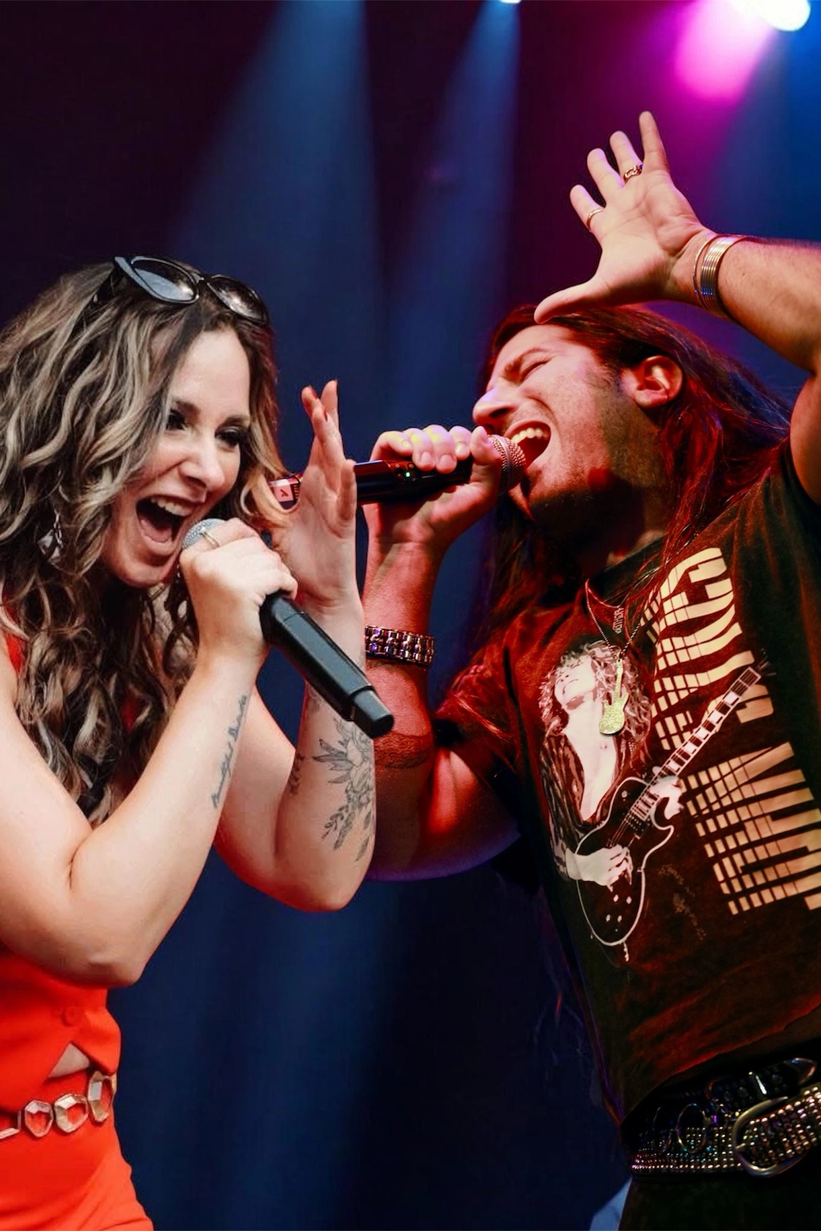
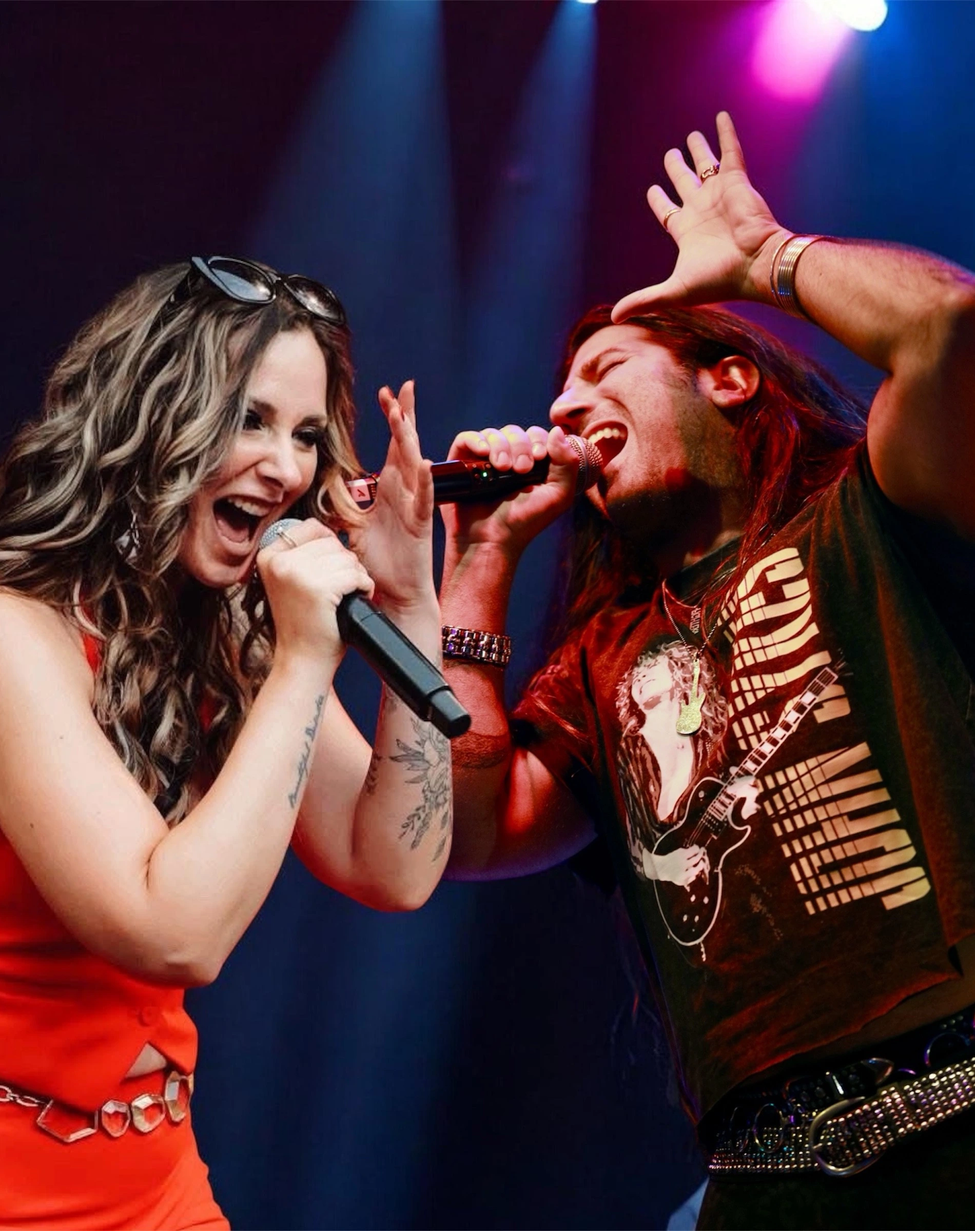
kleine Anpassungen

diff --git a/apps/we-rock/src/app/globals.css b/apps/we-rock/src/app/globals.css
@@ -408,7 +408,7 @@ h3, h4 {
 .hero-split {
   flex: 1 0 0%;               /* flex-basis:0 lets Safari resolve height from flex */
   display: grid;
-  grid-template-columns: 48fr 52fr;
+  grid-template-columns: 38fr 62fr;
   grid-template-rows: 1fr;    /* explicit row forces definite height in Safari */
   overflow: hidden;
   min-height: 0;
@@ -478,9 +478,9 @@ h3, h4 {
   position: absolute;
   top: 0;
   left: 0;
-  width: 25%;
+  width: 45%;
   height: 100%;
-  background: linear-gradient(to right, var(--bg-dark) 0%, transparent 100%);
+  background: linear-gradient(to right, var(--bg-dark) 0%, rgba(25, 23, 20, 0.55) 45%, transparent 100%);
   z-index: 1;
   pointer-events: none;
 }
@@ -586,7 +586,7 @@ h3, h4 {
 }
 .hero-sub {
   font-size: 0.9375rem;
-  color: rgba(226,217,200,0.82);
+  color: var(--text-light);
   margin-bottom: 28px;
   line-height: 1.6;
   max-width: 360px;
@@ -719,7 +719,7 @@ h3, h4 {
 }
 .social-media-desc {
   font-size: 1rem;
-  color: var(--text-muted);
+  color: var(--text);
   line-height: 1.8;
   margin-bottom: 32px;
   max-width: 400px;
@@ -1002,7 +1002,7 @@ h3, h4 {
   line-height: 1.05;
 }
 .about-text p {
-  color: var(--text-muted);
+  color: var(--text);
   font-size: 1rem;
   line-height: 1.8;
   margin-bottom: 32px;
@@ -1084,7 +1084,7 @@ h3, h4 {
 }
 .occasions-text { display: flex; flex-direction: column; align-items: flex-start; }
 .occasions-desc {
-  color: var(--text-muted);
+  color: var(--text);
   font-size: 1rem;
   line-height: 1.8;
   margin-bottom: 32px;
@@ -1264,7 +1264,7 @@ h3, h4 {
   margin-bottom: 20px;
 }
 .booking-cta-inner p {
-  color: var(--text-light-muted);
+  color: var(--text-light);
   font-size: 1.0625rem;
   margin-bottom: 48px;
   max-width: 480px;
@@ -1423,7 +1423,7 @@ h3, h4 {
   line-height: 1.1;
 }
 .about-simple-text p {
-  color: var(--text-muted);
+  color: var(--text);
   font-size: 1rem;
   line-height: 1.8;
   margin-bottom: 16px;
@@ -1974,7 +1974,7 @@ h3, h4 {
   align-items: start;
 }
 .media-social-desc {
-  color: var(--text-muted);
+  color: var(--text);
   font-size: 1rem;
   line-height: 1.8;
   margin-bottom: 36px;
@@ -2068,13 +2068,13 @@ h3, h4 {
   object-position: center top;
   display: block;
 }
-.services-split-img--tall {
-  aspect-ratio: 3 / 4;
+.services-split-img--wide {
+  aspect-ratio: 4 / 3;
 }
 @media (max-width: 900px) {
   .services-split,
   .services-split--imgfirst { grid-template-columns: 1fr; }
-  .services-split-img--tall { aspect-ratio: 4 / 3; }
+  .services-split-img--wide { aspect-ratio: 4 / 3; }
 }
 
 /* ─── Services Band Intro ───────────────────────────────────── */
@@ -2127,7 +2127,7 @@ h3, h4 {
 /* ─── Technik Section ───────────────────────────────────────── */
 .technik-section { background: var(--bg-card); border-top: 1px solid var(--border); border-bottom: 1px solid var(--border); }
 .technik-intro {
-  color: var(--text-muted);
+  color: var(--text);
   font-size: 1rem;
   line-height: 1.8;
   max-width: 680px;
@@ -2178,7 +2178,7 @@ h3, h4 {
 }
 .technik-note {
   font-size: 0.9rem;
-  color: var(--text-muted);
+  color: var(--text);
   line-height: 1.75;
   padding: 20px 24px;
   border-left: 2px solid var(--gold);
@@ -2198,7 +2198,7 @@ h3, h4 {
 .refs-section { overflow: hidden; }
 
 .refs-intro {
-  color: var(--text-muted);
+  color: var(--text);
   font-size: 1rem;
   line-height: 1.8;
   max-width: 560px;
@@ -2340,7 +2340,7 @@ h3, h4 {
   align-items: start;
 }
 .booking-info h2 { font-size: clamp(1.35rem,2.7vw,2.025rem); margin-bottom: 20px; color: var(--text-light); }
-.booking-info p { color: var(--text-light-muted); font-size: 1rem; line-height: 1.75; margin-bottom: 32px; }
+.booking-info p { color: var(--text-light); font-size: 1rem; line-height: 1.75; margin-bottom: 32px; }
 .booking-contact { display: flex; flex-direction: column; gap: 16px; }
 .booking-contact-label { font-family: var(--font-ui); font-size: 9.5px; font-weight: 600; letter-spacing: 0.18em; text-transform: uppercase; color: var(--gold); display: block; margin-bottom: 2px; }
 .booking-contact-value { font-size: 0.9375rem; color: var(--text-light); }

diff --git a/apps/we-rock/src/components/ServicesPage.tsx b/apps/we-rock/src/components/ServicesPage.tsx
@@ -30,10 +30,10 @@ export default function ServicesPage({ content = {} }: Props) {
             top: "50%",
             transform: "translateY(-50%)",
             width: "680px",
-            opacity: 0.52,
+            opacity: 0.28,
             pointerEvents: "none",
             userSelect: "none",
-            filter: "none",
+            filter: "brightness(0.5)",
             zIndex: 0,
           }}
         />
@@ -83,7 +83,7 @@ export default function ServicesPage({ content = {} }: Props) {
       <section className="section technik-section">
         <div className="container">
           <div className="services-split services-split--imgfirst">
-            <div className="services-split-img services-split-img--tall" data-animate="fade-up">
+            <div className="services-split-img services-split-img--wide" data-animate="fade-up">
               <img src={content.image_main || "/images/gallery/live-8.webp"} alt="WE ROCK auf der Bühne" />
             </div>
             <div>

diff --git a/apps/we-rock/src/components/BookingForm.tsx b/apps/we-rock/src/components/BookingForm.tsx
@@ -69,6 +69,7 @@ export default function BookingForm() {
             <li>Wie lange soll die Band in etwa spielen?</li>
             <li>Treten noch andere Künstler an dem Abend auf?</li>
             <li>Wünschen Sie Pausenmusik oder einen DJ-Service der Band?</li>
+            <li>Bitte nutzen Sie die vorausgefüllte E-Mail-Vorlage und löschen Sie nichts daraus – so können wir sicherstellen, für welche Band Ihre Anfrage ist.</li>
             <li>Für eventuelle Rückfragen: bitte Telefonnummer angeben.</li>
           </ul>
         </div>
